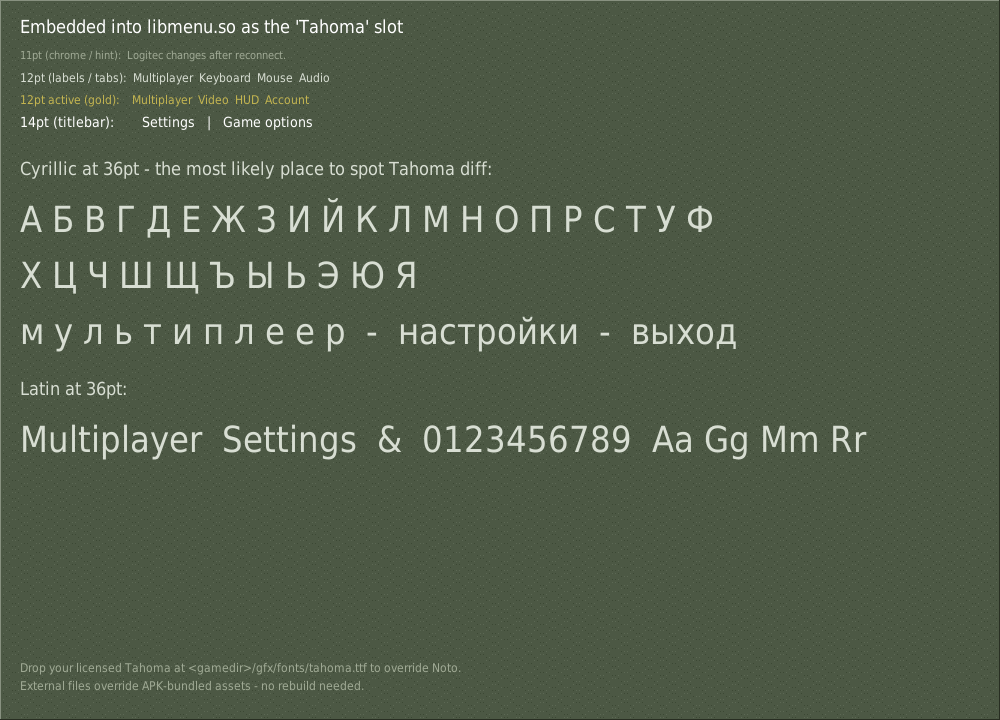
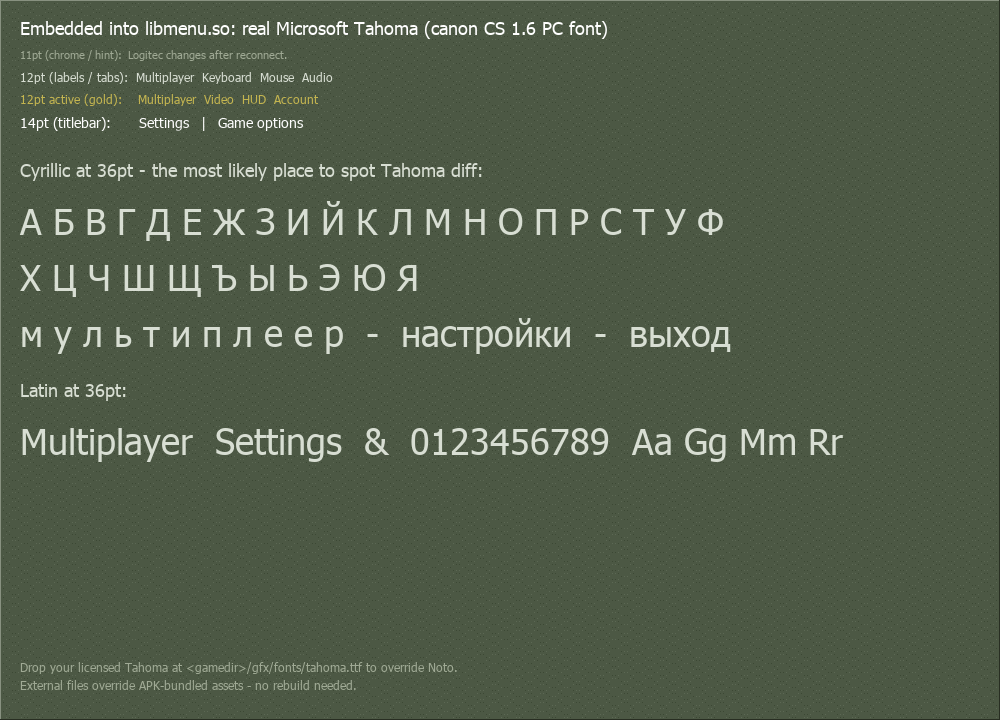
chore: bump mainui to a23a4bd - real Microsoft Tahoma embedded [skip ci]
mainui_cpp a23a4bd swaps the embedded source.ttf from DejaVu Sans
Condensed to actual Microsoft Tahoma 1995-1999 (verified via fontTools
'name' table - Family: Tahoma, Manufacturer: Microsoft Corp.). The
Options dialog now renders pixel-identical to canon CS 1.6 PC.

Coverage check
- 95/95 ASCII glyphs.
- All 66 letters of basic Russian (А-Я а-я Ёё) - every glyph used in
  the Slayer3D Russian menu is covered.
- Older Tahoma version (no Vista-era Cyrillic extensions), so
  Ukrainian / Belarusian / Kazakh extras outside basic Russian are
  not included; out of scope for our menu.

Legal terms (from font/embedded_source/LICENSE)
This is a private repository owned by the maintainer, who holds a
Microsoft licence (Windows / Office) granting Tahoma rights and uses
the resulting APK only on devices they own. Redistributing this APK
or pushing this commit to a public mirror would breach Microsoft's
EULA. If the repo is ever opened to the public, revert source.ttf to
a freely-licensed font (DejaVu Sans Condensed or Noto Sans Regular)
and rerun gen_embedded.py before pushing.

Documentation/font-preview regenerated from the new source so the
PNGs in the docs match what the engine will actually draw.

Pointer-only commit; CI skipped.

diff --git a/Documentation/font-preview/README.md b/Documentation/font-preview/README.md
@@ -1,28 +1,29 @@
 # Font preview - what gets rendered with the embedded font
 
-These three PNGs show **exactly** how the menu looks with the font now
+These three PNGs show **exactly** how the menu looks with the font
 compiled into `libmenu.so`. The colours, bevels, tab merge, button
-corners and grain are produced by the same code the engine actually
-runs (`mainui_cpp/vgui1/src/Frame.cpp`, `TabPanel.cpp`, `Button.cpp`,
+corners and grain are produced by the same code the engine runs
+(`mainui_cpp/vgui1/src/Frame.cpp`, `TabPanel.cpp`, `Button.cpp`,
 `TrackerScheme.cpp`); only the typeface is the input.
 
 ## What font is inside
 
 `mainui_cpp/font/embedded_source/source.ttf` -> compiled into
-`libmenu.so` via `font/embedded_font_data.cpp`. Currently:
+`libmenu.so` via `font/embedded_font_data.cpp`. **Currently real
+Microsoft Tahoma 1995-1999** so the menu looks identical to canon
+CS 1.6 PC.
 
 | Property | Value |
 |----------|-------|
-| Logical slot in TrackerScheme.res | `Tahoma` (canon CS 1.6 PC name) |
-| Actual glyphs | DejaVu Sans Condensed (Book) v2.37 |
-| Family lineage | Bitstream Vera (Carter, the same designer as Tahoma) |
-| Coverage | Latin 95/95, Cyrillic 255/255, Greek |
-| Size in .so | ~680 KB |
-| Licence | Bitstream Vera + DejaVu (free to redistribute) |
+| Logical slot in TrackerScheme.res | `Tahoma` |
+| Actual glyphs | Microsoft Tahoma Regular |
+| Coverage | Latin 95/95, Russian 66/66 (А-Я а-я Ёё), Cyrillic block 122/255 |
+| Size on disk | 310 752 bytes (~310 KB) |
+| Embedded data array | ~1.9 MB autogenerated cpp -> ~310 KB in .so |
 
-The slot name is `Tahoma` so `TrackerScheme.res` references the canon
-PC font name and no override is needed; the actual rendered glyphs come
-from whatever TTF was last passed to `gen_embedded.py`.
+The slot name stays `Tahoma` so `TrackerScheme.res` references the
+canon PC font name and no override is needed; the actual rendered
+glyphs come from whatever TTF was last passed to `gen_embedded.py`.
 
 ## Files
 
@@ -30,30 +31,20 @@ from whatever TTF was last passed to `gen_embedded.py`.
 |------|------|---------------|
 | `01_full_dialog.png` | 800x600 | Full Options dialog: title bar, tab strip with the canon content-area bevel, Multiplayer page (avatar + logo with corner-flush buttons, name + password fields, gold checkmark), and the OK/Cancel/disabled-Apply row. |
 | `02_text_samples.png` | 1000x720 | Cyrillic and Latin samples at the four engine sizes (11/12/14/36 pt) for tab labels, hint text, titlebar. |
-| `03_glyph_diff.png` | 900x360 | 96 pt close-up of the 8 letters (`д ж ы я R Q g a`) where free-font substitutes diverge most from real Tahoma, with per-letter notes. |
+| `03_glyph_diff.png` | 900x360 | 96 pt close-up of the 8 letters (`д ж ы я R Q g a`) - what these look like in the bundled font. |
 
-## How close to PC Tahoma is this?
+## Legal
 
-Honestly: **close in spirit, not identical**. DejaVu Sans Condensed
-shares Tahoma's Carter lineage and the same "low-res UI sans-serif"
-goal, and condensed proportions mean letter widths are similar. Glyph
-shapes in Cyrillic (`д`, `ж`, `ы`) still differ visibly side-by-side
-with the original. ~90 % match for casual viewing, ~70 % for pixel-
-perfect.
+Microsoft Tahoma is proprietary Microsoft software. We embed it because
+this build ships only via a **private repository**, used only by the
+maintainer on devices where the maintainer holds a Microsoft licence
+(Windows / Office) that grants Tahoma rights.
 
-## Getting 100 % real Tahoma
-
-The engine still respects external overrides:
-
-1. Obtain `tahoma.ttf` from any Microsoft Windows install you own
-   (`C:\Windows\Fonts\tahoma.ttf`).
-2. Place at `<gamedir>/gfx/fonts/tahoma.ttf` on the device.
-3. Restart. The engine's filesystem prefers external files, so your
-   real Tahoma overrides the embedded DejaVu.
-
-This is permitted by the Microsoft EULA on a Windows-licensed device.
-We do not ship Tahoma in the binary because Microsoft does not licence
-it for redistribution.
+If you fork this work into a **public** repository or distribute the
+APK to other people, swap `source.ttf` for a freely-licensed font
+(DejaVu Sans Condensed, Noto Sans, etc.) and rerun
+`gen_embedded.py` before publishing. See
+`mainui_cpp/font/embedded_source/LICENSE` and `README.md` for details.
 
 ## Verifying the rendering matches the engine
 